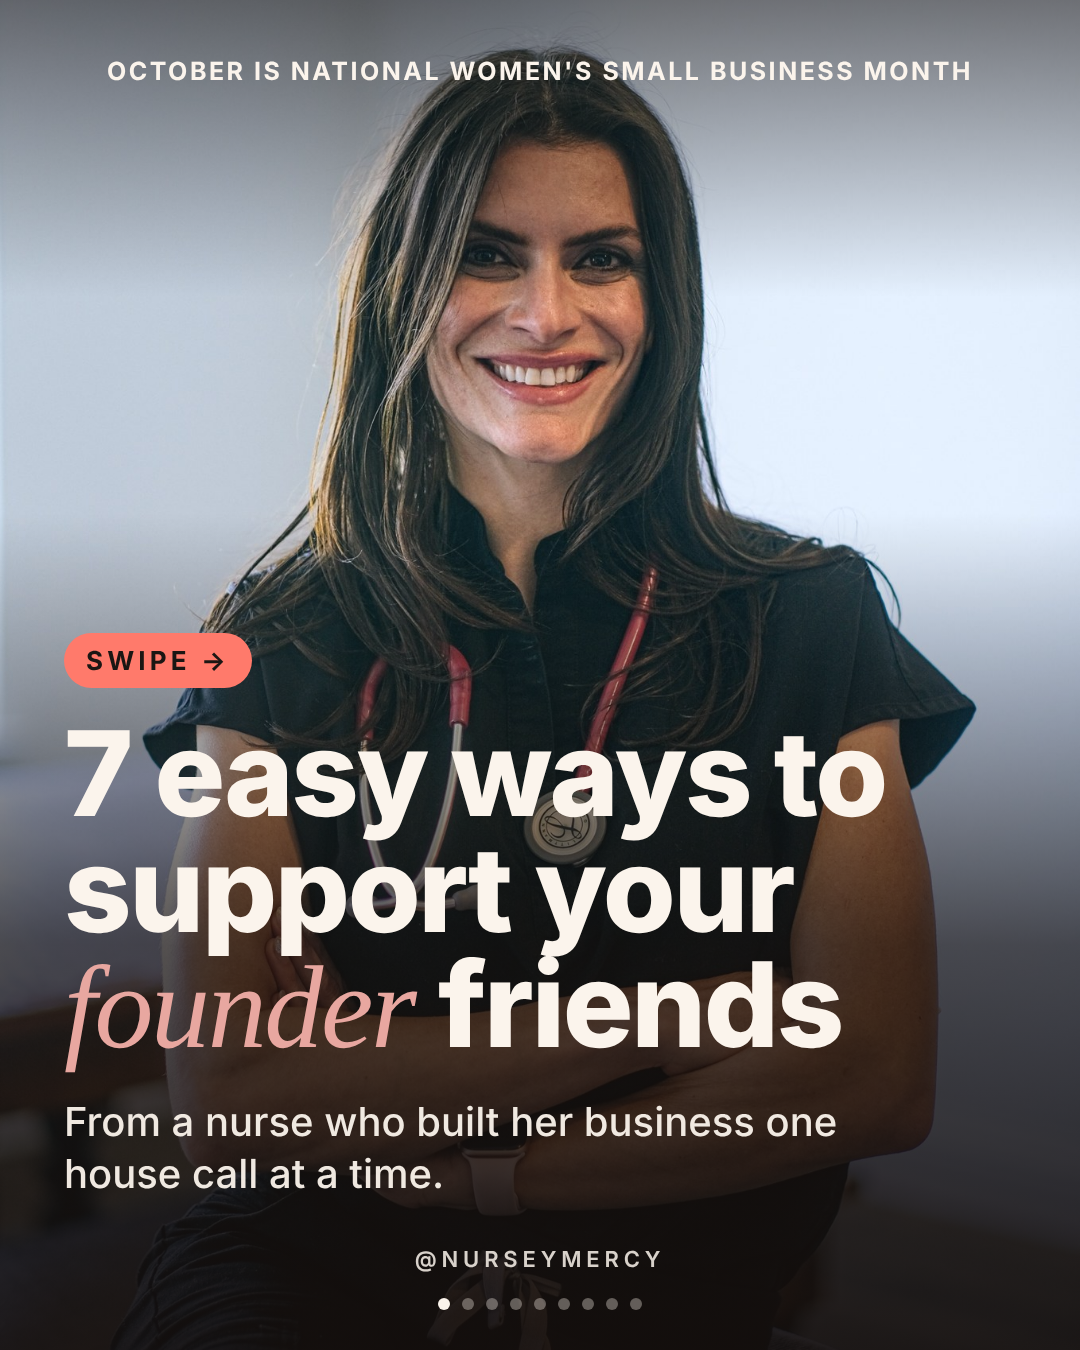
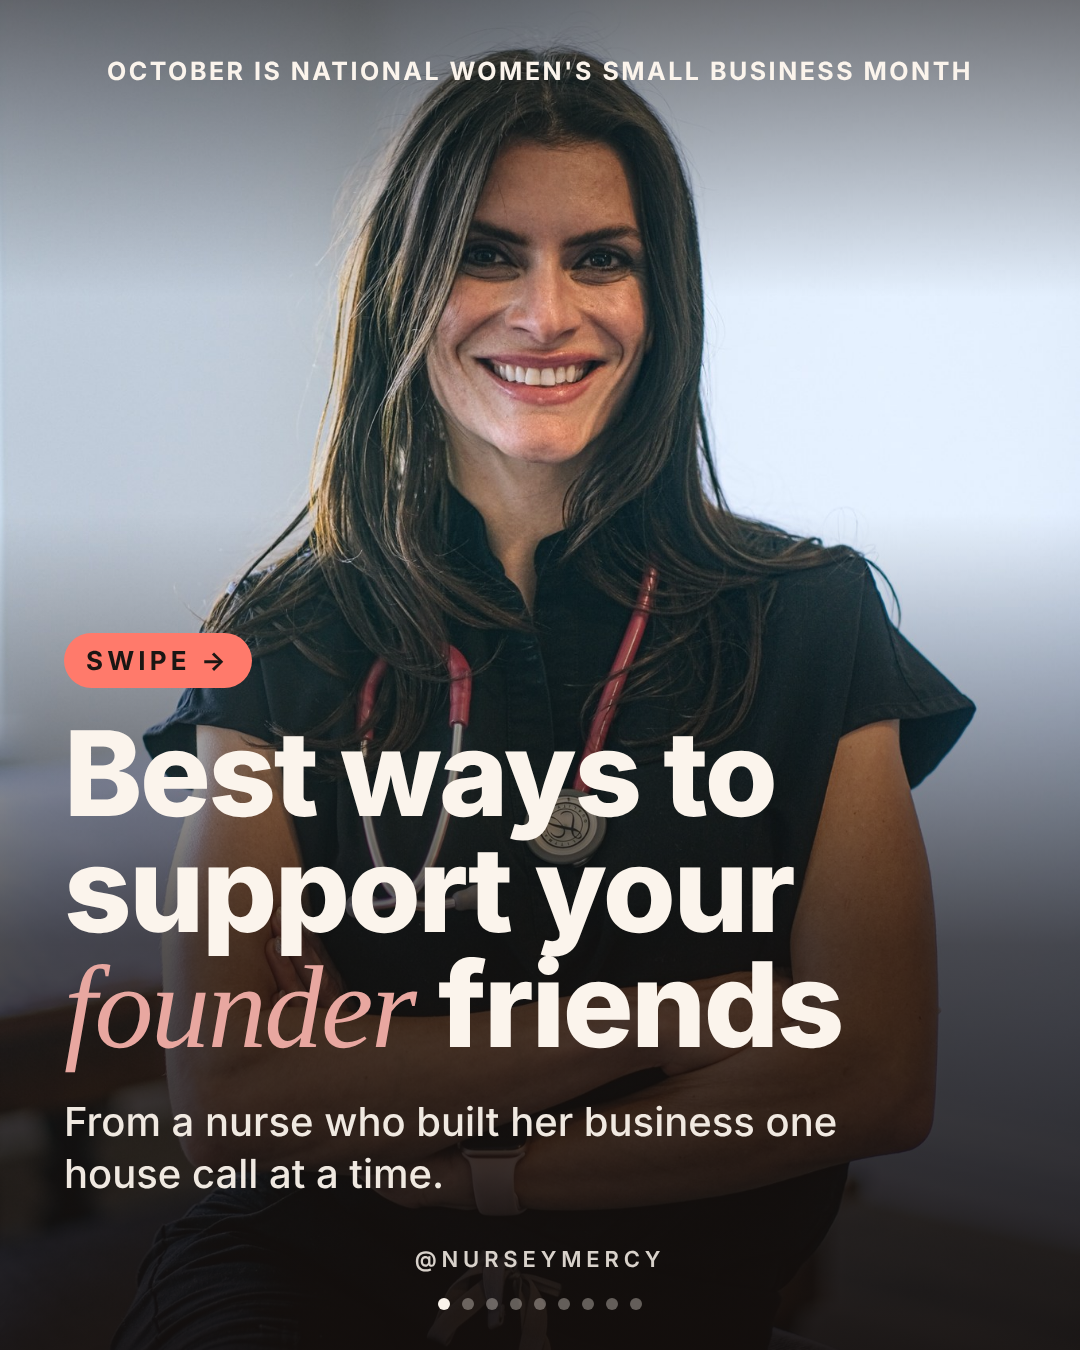
Change cover headline to 'Best ways to support your founder friends'
Claude-Session: https://claude.ai/code/session_01MKtqwUZJD2vDXX5GD9p1Yc

Changed region(s): [[0.0611, 0.5289, 0.825, 0.6222]]

diff --git a/carousel.html b/carousel.html
@@ -90,7 +90,7 @@
 <div class="handle">@nurseymercy</div>
   <div class="copy">
     <span class="kicker">Swipe →</span>
-    <h1>7 easy ways to support your <em>founder</em> friends</h1>
+    <h1>Best ways to support your <em>founder</em> friends</h1>
     <p>From a nurse who built her business one house call at a time.</p>
   </div>
   <div class="dots"><i class="on"></i><i></i><i></i><i></i><i></i><i></i><i></i><i></i><i></i></div>
